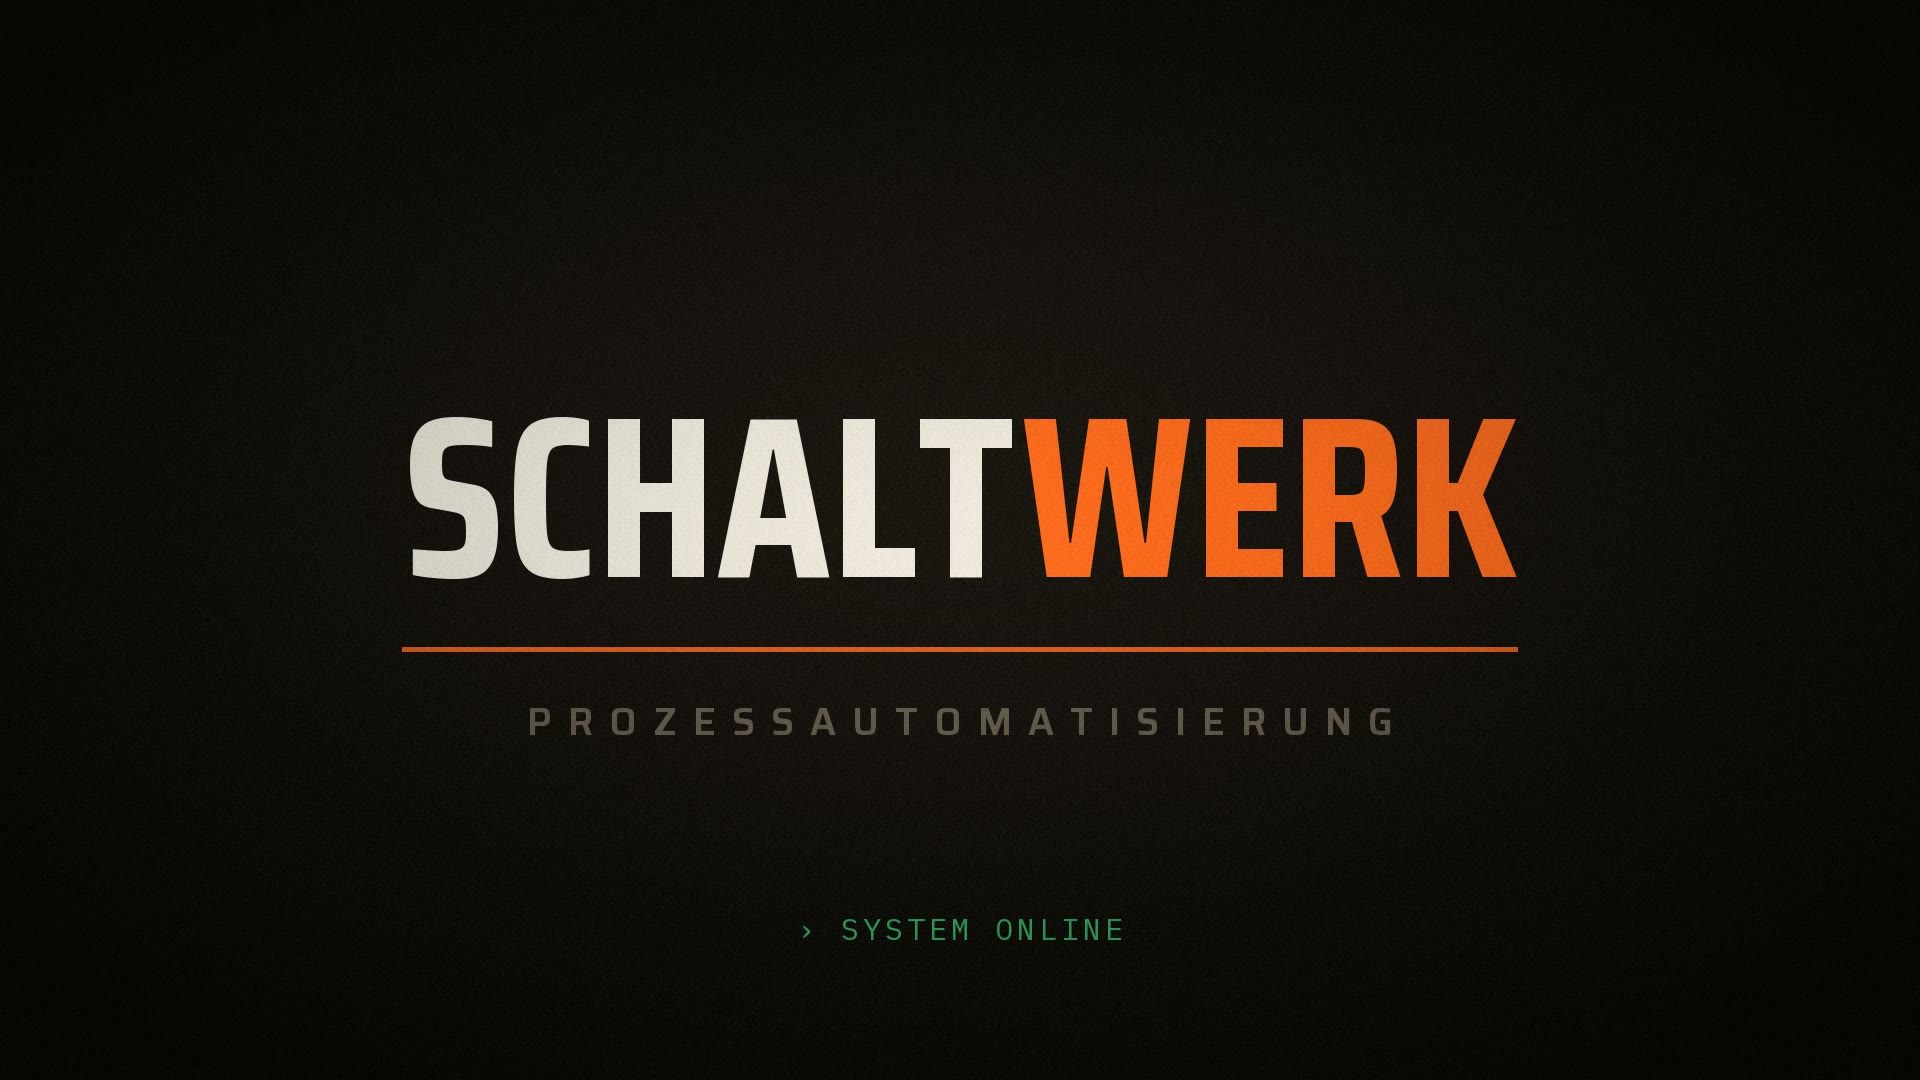
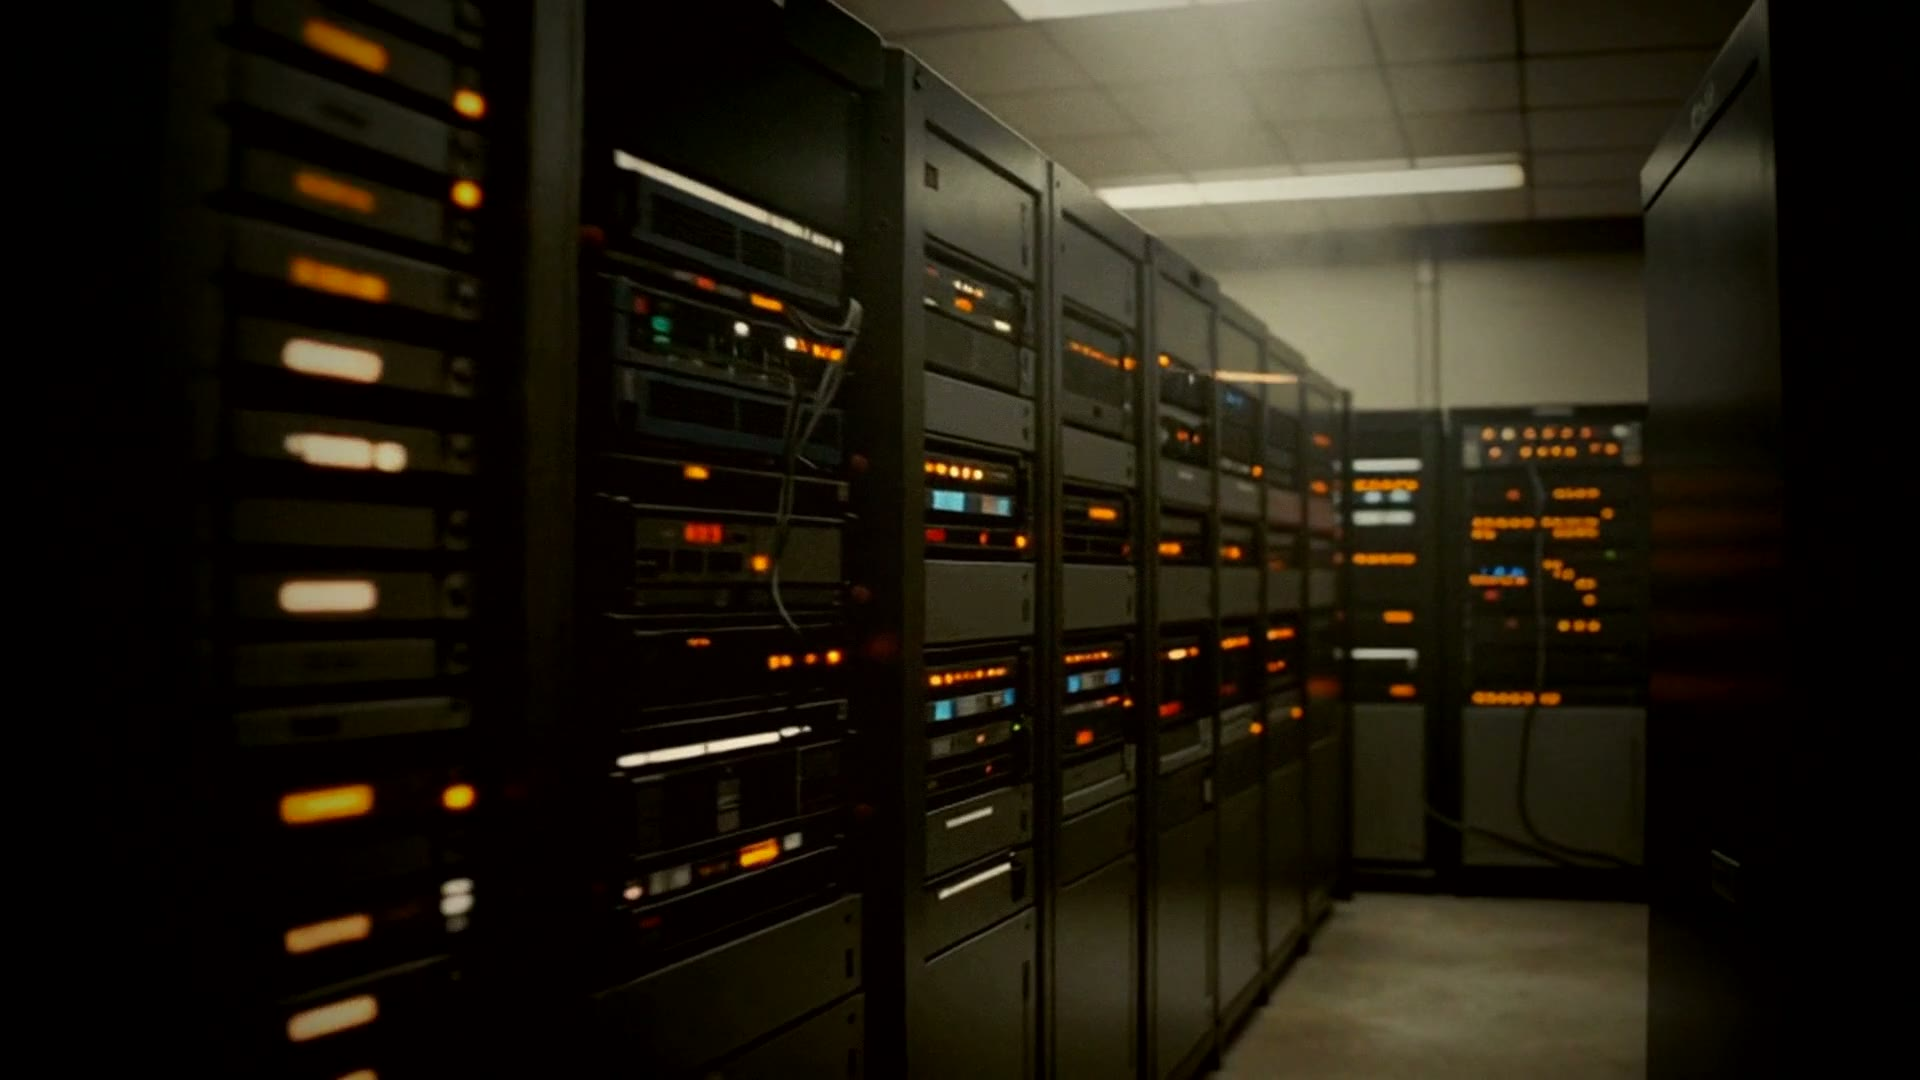
Cinematic Seedance opener + trailer; add Impressum & Datenschutz

diff --git a/datenschutz.html b/datenschutz.html
@@ -1,0 +1,57 @@
+<!doctype html><html lang="de"><head><meta charset="utf-8">
+<meta name="viewport" content="width=device-width,initial-scale=1">
+<title>Datenschutzerklärung — Schaltwerk</title>
+<style>
+:root{--bg:#161310;--bg2:#0f0d0b;--ink:#efe9dc;--dim:#a89f8d;--etch:#8f8670;--line:#37312a;--accent:#ff6c1f;--accent2:#ff8b45;--amber:#ffb021}
+*{box-sizing:border-box;margin:0;padding:0}
+body{background:radial-gradient(130% 90% at 50% -8%,var(--bg),var(--bg2));color:var(--ink);
+  font:400 1rem/1.7 -apple-system,'Segoe UI',Roboto,sans-serif;min-height:100vh;-webkit-font-smoothing:antialiased}
+.wrap{max-width:760px;margin:0 auto;padding:clamp(28px,6vw,72px) clamp(20px,5vw,40px)}
+a{color:var(--accent2);text-decoration:none}a:hover{text-decoration:underline}
+.top{display:flex;align-items:center;justify-content:space-between;border-bottom:1px solid var(--line);padding-bottom:18px;margin-bottom:34px}
+.mark{font:700 1.15rem/1 'Arial Narrow','Segoe UI',sans-serif;letter-spacing:.02em;text-transform:uppercase;color:var(--ink)}
+.mark b{color:var(--accent);font-weight:700}
+.back{font:600 .72rem/1 sans-serif;letter-spacing:.12em;text-transform:uppercase;color:var(--dim)}
+h1{font:700 clamp(1.9rem,5vw,2.6rem)/1.05 'Arial Narrow','Segoe UI',sans-serif;letter-spacing:.01em;text-transform:uppercase;margin-bottom:24px}
+h2{font:600 1.08rem/1.3 sans-serif;letter-spacing:.02em;margin:30px 0 8px;color:var(--ink)}
+p{color:var(--dim);margin-bottom:10px}
+.ink{color:var(--ink)}
+.ph{color:var(--accent2);background:rgba(255,108,31,.1);border:1px dashed var(--accent);border-radius:5px;padding:1px 7px;font-size:.9em}
+.note{border:1px solid var(--amber);border-radius:9px;background:rgba(255,176,33,.07);padding:14px 16px;margin-bottom:30px;font-size:.9rem;color:#f0dfb8}
+.note b{color:var(--amber)}
+ul{color:var(--dim);margin:0 0 10px 22px}li{margin-bottom:5px}
+footer{margin-top:48px;border-top:1px solid var(--line);padding-top:18px;font-size:.8rem;color:var(--etch)}
+</style></head><body>
+<div class="wrap">
+  <div class="top"><a class="mark" href="index.html">SCHALT<b>WERK</b></a><a class="back" href="index.html">← Zurück</a></div>
+
+  <div class="note"><b>Entwurf – bitte prüfen.</b> Diese Vorlage deckt die tatsächlich genutzten Dienste ab (Hosting Vercel, Terminbuchung Google). Ergänze deine <b>Anschrift</b> und lass sie idealerweise juristisch prüfen. Keine Rechtsberatung.</div>
+
+  <h1>Datenschutz&shy;erklärung</h1>
+
+  <h2>1. Verantwortlicher</h2>
+  <p class="ink">Maurice Koch</p>
+  <p><span class="ph">Anschrift eintragen</span></p>
+  <p>E-Mail: <a href="mailto:[email redacted]">[email redacted]</a></p>
+
+  <h2>2. Überblick</h2>
+  <p>Diese Website ist eine reine Informationsseite. Sie setzt <span class="ink">keine Cookies</span>, nutzt <span class="ink">keine Analyse- oder Tracking-Tools</span> und bindet keine externen Werbe- oder Social-Media-Dienste ein. Das Intro-Video wird direkt von dieser Seite ausgeliefert (kein YouTube/Vimeo-Embed).</p>
+
+  <h2>3. Hosting (Vercel)</h2>
+  <p>Die Website wird bei der Vercel Inc. (340 S Lemon Ave #4133, Walnut, CA 91789, USA) gehostet. Beim Aufruf verarbeitet Vercel technisch notwendige Zugriffsdaten (siehe Server-Logfiles). Rechtsgrundlage ist unser berechtigtes Interesse an einem sicheren, stabilen Betrieb (Art. 6 Abs. 1 lit. f DSGVO). Eine Übermittlung in die USA kann stattfinden; Vercel stützt sich hierfür auf Standardvertragsklauseln. Details: <a href="https://vercel.com/legal/privacy-policy" target="_blank" rel="noopener">vercel.com/legal/privacy-policy</a>.</p>
+
+  <h2>4. Server-Logfiles</h2>
+  <p>Beim Aufruf werden automatisch Daten erfasst, die Ihr Browser übermittelt:</p>
+  <ul><li>IP-Adresse (gekürzt/temporär)</li><li>Datum und Uhrzeit des Zugriffs</li><li>aufgerufene Seite / Datei</li><li>Browsertyp und Betriebssystem</li><li>Referrer-URL</li></ul>
+  <p>Diese Daten dienen der technischen Auslieferung, Sicherheit und Fehleranalyse und werden nicht mit anderen Datenquellen zusammengeführt. Rechtsgrundlage: Art. 6 Abs. 1 lit. f DSGVO.</p>
+
+  <h2>5. Kontaktaufnahme &amp; Terminbuchung</h2>
+  <p>Wenn Sie uns per E-Mail schreiben, verarbeiten wir Ihre Angaben zur Bearbeitung der Anfrage (Art. 6 Abs. 1 lit. b bzw. f DSGVO). Für die Buchung des kostenlosen Prozess-Audits leiten wir auf einen Google-Kalender-Terminlink weiter. Dabei verarbeitet Google Ihre Angaben (Name, E-Mail, gewählter Termin). Anbieter: Google Ireland Limited, Gordon House, Barrow Street, Dublin 4, Irland. Datenschutz: <a href="https://policies.google.com/privacy" target="_blank" rel="noopener">policies.google.com/privacy</a>.</p>
+
+  <h2>6. Ihre Rechte</h2>
+  <p>Sie haben das Recht auf Auskunft (Art. 15), Berichtigung (Art. 16), Löschung (Art. 17), Einschränkung der Verarbeitung (Art. 18), Datenübertragbarkeit (Art. 20) sowie Widerspruch (Art. 21 DSGVO). Zudem besteht ein Beschwerderecht bei einer Datenschutz-Aufsichtsbehörde. Wenden Sie sich dazu an die oben genannte Kontaktadresse.</p>
+
+  <p style="margin-top:22px;font-size:.85rem;color:var(--etch)">Stand: Juli 2026</p>
+  <footer>© 2026 Schaltwerk · <a href="index.html">Startseite</a> · <a href="impressum.html">Impressum</a></footer>
+</div>
+</body></html>

diff --git a/impressum.html b/impressum.html
@@ -1,0 +1,52 @@
+<!doctype html><html lang="de"><head><meta charset="utf-8">
+<meta name="viewport" content="width=device-width,initial-scale=1">
+<title>Impressum — Schaltwerk</title>
+<style>
+:root{--bg:#161310;--bg2:#0f0d0b;--ink:#efe9dc;--dim:#a89f8d;--etch:#8f8670;--line:#37312a;--accent:#ff6c1f;--accent2:#ff8b45;--amber:#ffb021}
+*{box-sizing:border-box;margin:0;padding:0}
+body{background:radial-gradient(130% 90% at 50% -8%,var(--bg),var(--bg2));color:var(--ink);
+  font:400 1rem/1.7 -apple-system,'Segoe UI',Roboto,sans-serif;min-height:100vh;-webkit-font-smoothing:antialiased}
+.wrap{max-width:760px;margin:0 auto;padding:clamp(28px,6vw,72px) clamp(20px,5vw,40px)}
+a{color:var(--accent2);text-decoration:none}a:hover{text-decoration:underline}
+.top{display:flex;align-items:center;justify-content:space-between;border-bottom:1px solid var(--line);padding-bottom:18px;margin-bottom:34px}
+.mark{font:700 1.15rem/1 'Arial Narrow','Segoe UI',sans-serif;letter-spacing:.02em;text-transform:uppercase;color:var(--ink)}
+.mark b{color:var(--accent);font-weight:700}
+.back{font:600 .72rem/1 sans-serif;letter-spacing:.12em;text-transform:uppercase;color:var(--dim)}
+h1{font:700 clamp(1.9rem,5vw,2.6rem)/1.05 'Arial Narrow','Segoe UI',sans-serif;letter-spacing:.01em;text-transform:uppercase;margin-bottom:24px}
+h2{font:600 1.05rem/1.3 sans-serif;letter-spacing:.02em;margin:28px 0 8px;color:var(--ink)}
+p{color:var(--dim);margin-bottom:10px}
+.ink{color:var(--ink)}
+.note{border:1px solid var(--amber);border-radius:9px;background:rgba(255,176,33,.07);padding:14px 16px;margin-bottom:30px;font-size:.9rem;color:#f0dfb8}
+.note b{color:var(--amber)}
+.ph{color:var(--accent2);background:rgba(255,108,31,.1);border:1px dashed var(--accent);border-radius:5px;padding:1px 7px;font-size:.9em}
+footer{margin-top:48px;border-top:1px solid var(--line);padding-top:18px;font-size:.8rem;color:var(--etch)}
+</style></head><body>
+<div class="wrap">
+  <div class="top"><a class="mark" href="index.html">SCHALT<b>WERK</b></a><a class="back" href="index.html">← Zurück</a></div>
+
+  <div class="note"><b>Entwurf – bitte prüfen.</b> Dies ist eine Vorlage. Ergänze die <b>vollständige Anschrift</b> (rechtlich Pflicht) und lass Impressum &amp; Datenschutz idealerweise juristisch prüfen. Keine Rechtsberatung.</div>
+
+  <h1>Impressum</h1>
+
+  <h2>Angaben gemäß § 5 DDG</h2>
+  <p class="ink">Maurice Koch</p>
+  <p><span class="ph">Straße &amp; Hausnummer eintragen</span></p>
+  <p><span class="ph">PLZ&nbsp;&amp;&nbsp;Ort eintragen</span></p>
+  <p>Deutschland</p>
+
+  <h2>Kontakt</h2>
+  <p>E-Mail: <a href="mailto:[email redacted]">[email redacted]</a></p>
+
+  <h2>Umsatzsteuer-ID</h2>
+  <p><span class="ph">USt-IdNr. gemäß § 27 a UStG eintragen – oder diesen Abschnitt entfernen, falls nicht vorhanden</span></p>
+
+  <h2>Redaktionell verantwortlich (§ 18 Abs. 2 MStV)</h2>
+  <p class="ink">Maurice Koch</p>
+  <p><span class="ph">Anschrift wie oben</span></p>
+
+  <h2>Haftung für Inhalte &amp; Links</h2>
+  <p>Als Diensteanbieter sind wir für eigene Inhalte auf diesen Seiten nach den allgemeinen Gesetzen verantwortlich. Für Inhalte externer Links sind ausschließlich deren Betreiber verantwortlich; zum Zeitpunkt der Verlinkung waren keine Rechtsverstöße erkennbar.</p>
+
+  <footer>© 2026 Schaltwerk · <a href="index.html">Startseite</a> · <a href="datenschutz.html">Datenschutz</a></footer>
+</div>
+</body></html>

diff --git a/index.html b/index.html
@@ -559,7 +559,7 @@ footer{padding:0 0 60px}
   </div>
   <div class="foot-line">
     <span>© 2026 Schaltwerk — Prozessautomatisierung</span>
-    <span><a href="#">Impressum</a> · <a href="#">Datenschutz</a></span>
+    <span><a href="impressum.html">Impressum</a> · <a href="datenschutz.html">Datenschutz</a></span>
   </div>
 </footer>
 